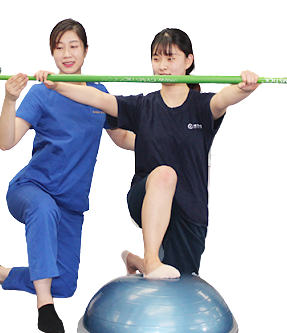
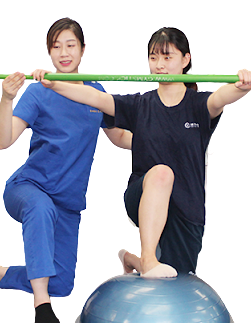
design : 이미지 편집 및 크기 수정

diff --git a/templates/rehab/index.html b/templates/rehab/index.html
@@ -16,7 +16,7 @@
 
 </div>
 <div style="width:100%;text-align: center;">
-    <img src="{% static 'img/rehab.png/' %}" style="padding-top:20px;padding-bottom:20px;width:450px;">
+    <img src="{% static 'img/rehab.png/' %}" style="padding-top:20px;padding-bottom:20px;width:300px;">
 </div>
 
 <div style="width:100%;text-align: center;height:350px;background-color:#bff9ce9e">
